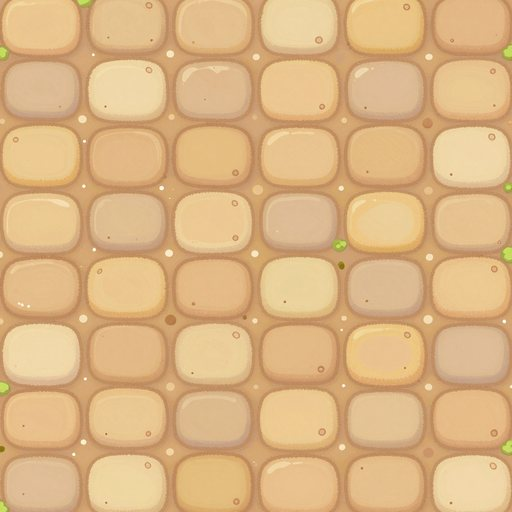
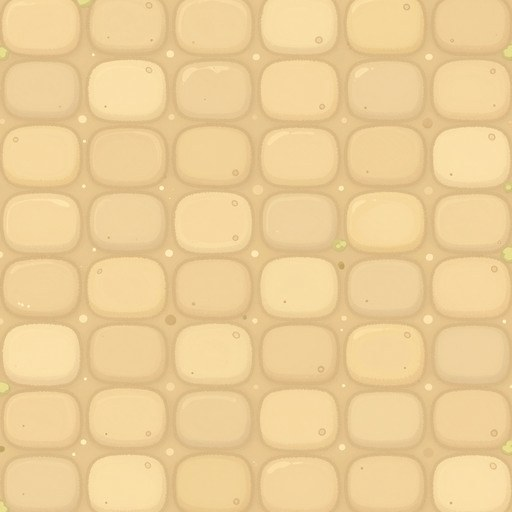
alfa a42fc8d: Merge: adoquines más suaves (menos contraste y color, al tono de la tierra)

diff --git a/alfa/index.html b/alfa/index.html
@@ -10,10 +10,10 @@
 <link rel="preconnect" href="https://fonts.googleapis.com">
 <link rel="preconnect" href="https://fonts.gstatic.com" crossorigin>
 <link rel="stylesheet" href="https://fonts.googleapis.com/css2?family=Baloo+2:wght@600;700;800&family=Luckiest+Guy&display=swap">
-<link rel="stylesheet" href="core/css/base.css?v=fa0d1a8">
-<link rel="stylesheet" href="biblioteca/tienda.css?v=fa0d1a8">
-<link rel="stylesheet" href="novedades/ventana.css?v=fa0d1a8">
-<link rel="stylesheet" href="biblioteca/votos.css?v=fa0d1a8">
+<link rel="stylesheet" href="core/css/base.css?v=a42fc8d">
+<link rel="stylesheet" href="biblioteca/tienda.css?v=a42fc8d">
+<link rel="stylesheet" href="novedades/ventana.css?v=a42fc8d">
+<link rel="stylesheet" href="biblioteca/votos.css?v=a42fc8d">
 <style>
   /* la entrada de la web: una tarjeta por juego, con los colores y las letras de core */
   body { overflow: auto; touch-action: auto; align-items: flex-start; background-repeat: no-repeat; background-attachment: fixed; }
@@ -61,7 +61,7 @@
 </style>
 </head>
 <body>
-<script src="menu.js?v=fa0d1a8" data-base="" data-core="1" data-pagina=""></script>
+<script src="menu.js?v=a42fc8d" data-base="" data-core="1" data-pagina=""></script>
 <div class="nov-fondo" id="novedades" hidden>
   <div class="nov-caja" role="dialog" aria-modal="true" aria-labelledby="nov-titulo">
     <div class="nov-cabeza"><h2 class="ol" id="nov-titulo">NOVEDADES</h2><p id="nov-sub"></p></div>
@@ -339,8 +339,8 @@
   </section>
   <p class="note" id="pie-fansof">Fans Of™ · © 2026 Arkioner y Pepins · MicroBlizz · Todos los derechos reservados</p>
 </main>
-<script src="core/js/nucleo.js?v=0-a700.fa0d1a8"></script>
-<script src="core/js/novedades.js?v=fa0d1a8"></script>
+<script src="core/js/nucleo.js?v=0-a701.a42fc8d"></script>
+<script src="core/js/novedades.js?v=a42fc8d"></script>
 <script>
 // La cuenta de la web es la misma de los juegos (core/js/sistema/cuenta.js, mismo navegador = misma sesión). Aquí no hay partida que subir.
 const AJUSTES = { id: 'web', guardado: 'fansof-web' }, SAVE_KEY = AJUSTES.guardado, SAVE = {};
@@ -349,7 +349,7 @@ const HOOKS = {};
 function hook(name, fn) { (HOOKS[name] = HOOKS[name] || []).push(fn); }
 function fire(name, ...a) { let out = ''; for (const fn of HOOKS[name] || []) { const r = fn(...a); if (typeof r === 'string') out += r; } return out; }
 </script>
-<script src="core/js/sistema/cuenta.js?v=fa0d1a8"></script>
+<script src="core/js/sistema/cuenta.js?v=a42fc8d"></script>
 <script>NUCLEO.idiomaSolo({ en: ['core/idioma/en-raiz.js', 'novedades/en.js', 'biblioteca/en.js','games/rumble/idioma/en-7.js', 'games/td/idioma/en-2.js', 'games/survivors/idioma/en.js', 'games/crush/idioma/en-raiz.js', 'games/jump/idioma/en-raiz.js', 'games/taxi/idioma/en-raiz.js', 'games/dark/idioma/en-raiz.js', 'games/nova/idioma/en-raiz.js', 'demos/beams/idioma/en-raiz.js', 'demos/snakes/idioma/en-raiz.js', 'demos/merge/idioma/en-raiz.js', 'demos/swipe/idioma/en-raiz.js', 'demos/pop/idioma/en-raiz.js', 'demos/vikings/idioma/en-raiz.js', 'demos/goose/idioma/en-raiz.js', 'demos/asalto/idioma/en-raiz.js', 'demos/auto/idioma/en-raiz.js', 'games/island/idioma/en-raiz.js', 'demos/rumble-3d/idioma/en-raiz.js', 'demos/roguelite/idioma/en-raiz.js', 'demos/tactics-advance/idioma/en-raiz.js', 'games/rouflage/idioma/en-raiz.js', 'demos/dungeons/idioma/en-raiz.js', 'games/karts/idioma/en-raiz.js', 'demos/recruit/idioma/en-raiz.js', 'demos/terminal-shock/idioma/en-raiz.js', 'games/ratkov/idioma/en-raiz.js'] })</script>
 <script>
 // La versión y las novedades salen de los archivos de cada juego, así que esta página nunca se queda atrás.
@@ -375,14 +375,14 @@ const fail = id => () => {
 };
 
 </script>
-<script src="core/js/proximamente.js?v=fa0d1a8"></script>
-<script src="novedades/ventana.js?v=fa0d1a8"></script>
-<script src="biblioteca/tienda.js?v=fa0d1a8"></script>
-<script src="core/js/sistema/beta.js?v=fa0d1a8"></script>
-<script src="biblioteca/cuenta-web.js?v=fa0d1a8"></script>
-<script src="biblioteca/votos.js?v=fa0d1a8"></script>
-<script src="biblioteca/alfa.js?v=fa0d1a8"></script>
-<script src="core/js/sistema/analitica.js?v=fa0d1a8"></script>
-<script src="pie.js?v=fa0d1a8" defer></script>
+<script src="core/js/proximamente.js?v=a42fc8d"></script>
+<script src="novedades/ventana.js?v=a42fc8d"></script>
+<script src="biblioteca/tienda.js?v=a42fc8d"></script>
+<script src="core/js/sistema/beta.js?v=a42fc8d"></script>
+<script src="biblioteca/cuenta-web.js?v=a42fc8d"></script>
+<script src="biblioteca/votos.js?v=a42fc8d"></script>
+<script src="biblioteca/alfa.js?v=a42fc8d"></script>
+<script src="core/js/sistema/analitica.js?v=a42fc8d"></script>
+<script src="pie.js?v=a42fc8d" defer></script>
 </body>
 </html>

diff --git a/alfa/games/rouflage/index.html b/alfa/games/rouflage/index.html
@@ -10,7 +10,7 @@
 <link rel="preconnect" href="https://fonts.googleapis.com">
 <link rel="preconnect" href="https://fonts.gstatic.com" crossorigin>
 <link rel="stylesheet" href="https://fonts.googleapis.com/css2?family=Baloo+2:wght@600;700;800&family=Luckiest+Guy&display=swap">
-<script src="../../core/js/nucleo.js?v=0.2.63-a700.fa0d1a8"></script>
+<script src="../../core/js/nucleo.js?v=0.2.63-a701.a42fc8d"></script>
 <script>NUCLEO.estilos('../../core/css/base.css', '../../core/css/menus.css', '../../core/css/menus-extra.css')</script>
 <script>NUCLEO.estilos('estilo.css', 'estilo-taller.css', 'estilo-pantallas.css', 'estilo-pvp.css', 'estilo-armario.css', 'estilo-menus.css', 'estilo-misiones.css', 'estilo-escenario.css', 'estilo-votos.css', 'estilo-gacha.css', 'estilo-compra.css', 'estilo-fin.css', 'estilo-talentos.css', 'estilo-chat.css', 'estilo-titulo.css', 'estilo-barra.css', 'estilo-sala-viva.css', 'estilo-obra.css', 'estilo-ayuda.css', 'estilo-carga.css')</script>      <!-- la intro, la última: pisa el #carga de estilo.css (antes iba en línea dentro de #carga) -->
 </head>

diff --git a/alfa/games/karts/index.html b/alfa/games/karts/index.html
@@ -8,7 +8,7 @@
 <meta name="description" content="Fans of Karts (juego): carreras de karts en pixel art de consola portátil con los líderes de Fans of Rumble. Tres pistas, seis pilotos, objetos con mala idea y Microblizz, que ha comprado la carrera.">
 <link rel="icon" type="image/png" href="img/icon-192.png">
 <link rel="apple-touch-icon" href="img/icon-192.png">
-<script src="../../core/js/nucleo.js?v=0.7.15-a700.fa0d1a8"></script>
+<script src="../../core/js/nucleo.js?v=0.7.15-a701.a42fc8d"></script>
 <script>NUCLEO.estilos('../../core/css/base.css', '../../core/css/menus.css', '../../core/css/menus-tienda.css', '../../core/css/menus-extra.css', 'css/tienda.css', 'css/pvp.css')</script>
 <link rel="stylesheet" href="https://fonts.googleapis.com/css2?family=Baloo+2:wght@600;700;800&family=Luckiest+Guy&display=swap">
 <style>

diff --git a/alfa/games/dark/index.html b/alfa/games/dark/index.html
@@ -12,7 +12,7 @@
 <link rel="stylesheet" href="https://fonts.googleapis.com/css2?family=Baloo+2:wght@600;700;800&family=Luckiest+Guy&family=Press+Start+2P&family=Pixelify+Sans:wght@400;600;700&display=swap">
 <link rel="stylesheet" href="css/dark.css?v=0.2.4">
 <!-- Prototipo: no usa NUCLEO (tiene su propia partida guardada). Carga de core el arte, la música, los efectos y las cifras del Rumble.
-     VERSIÓN para desplegar.py (que la busca así): nucleo.js?v=0.2.7-a700.fa0d1a8' (aquí solo se anota; súbela junto al ?v= de los scripts). -->
+     VERSIÓN para desplegar.py (que la busca así): nucleo.js?v=0.2.7-a701.a42fc8d' (aquí solo se anota; súbela junto al ?v= de los scripts). -->
 </head>
 <body>
 <canvas id="cv" aria-label="Mazmorra"></canvas>

diff --git a/alfa/games/rumble/index.html b/alfa/games/rumble/index.html
@@ -16,7 +16,7 @@
 <link rel="preconnect" href="https://fonts.gstatic.com" crossorigin>
 <link rel="stylesheet" href="https://fonts.googleapis.com/css2?family=Baloo+2:wght@600;700;800&family=Luckiest+Guy&display=swap">
 <!-- core/js/nucleo.js carga lo común y el juego. LA VERSIÓN SE ESCRIBE SOLO AQUÍ, en su ?v= -->
-<script src="../../core/js/nucleo.js?v=0.9.158-a700.fa0d1a8"></script>
+<script src="../../core/js/nucleo.js?v=0.9.158-a701.a42fc8d"></script>
 <script>NUCLEO.estilos('../../core/css/menus.css', 'css/estilos-partida.css', 'css/estilos-extra.css', 'css/arena.css', '../../core/css/biblioteca.css', 'css/facciones-y-jefes.css', '../../core/css/clasificacion.css', 'css/frases.css', 'css/mitica.css', 'css/paletas.css')</script>
 
 </head>

diff --git a/alfa/games/jump/index.html b/alfa/games/jump/index.html
@@ -12,7 +12,7 @@
 <link rel="preconnect" href="https://fonts.gstatic.com" crossorigin>
 <link rel="stylesheet" href="https://fonts.googleapis.com/css2?family=Baloo+2:wght@600;700;800&family=Luckiest+Guy&display=swap">
 <!-- ?v= es la versión del juego (la misma en la web y en la app): súbela al publicar y pon su entrada en js/novedades.js -->
-<script src="../../core/js/nucleo.js?v=0.3.16-a700.fa0d1a8"></script>
+<script src="../../core/js/nucleo.js?v=0.3.16-a701.a42fc8d"></script>
 <script>NUCLEO.estilos('../../core/css/base.css', '../../core/css/menus.css')</script>
 <style>
 /* Fans of Jump: un solo canvas a la resolución real de la pantalla, con los dibujos 3D. El mundo mide unos 200 de ancho y se

diff --git a/alfa/games/decks/index.html b/alfa/games/decks/index.html
@@ -15,7 +15,7 @@
 <link rel="preconnect" href="https://fonts.gstatic.com" crossorigin>
 <link rel="stylesheet" href="https://fonts.googleapis.com/css2?family=Baloo+2:wght@600;700;800&family=Luckiest+Guy&display=swap">
 <!-- core/js/nucleo.js carga lo común y el juego. LA VERSIÓN SE ESCRIBE SOLO AQUÍ, en su ?v= -->
-<script src="../../core/js/nucleo.js?v=0.2.21-a700.fa0d1a8"></script>
+<script src="../../core/js/nucleo.js?v=0.2.21-a701.a42fc8d"></script>
 <script>NUCLEO.estilos('../../core/css/base.css', '../../core/css/menus.css', 'css/decks.css', 'css/decks-reunion.css', 'css/decks-anim.css', 'css/decks-campana.css', 'css/decks-lideres.css')</script>
 </head>
 <body>

diff --git a/alfa/demos/goose/index.html b/alfa/demos/goose/index.html
@@ -10,7 +10,7 @@
 <link rel="preconnect" href="https://fonts.gstatic.com" crossorigin>
 <link rel="stylesheet" href="https://fonts.googleapis.com/css2?family=Pixelify+Sans:wght@500;700&family=Pirata+One&display=swap">
 <!-- ?v= es la versión de la demo: súbela al publicar -->
-<script src="../../core/js/nucleo.js?v=0.5.0-a700.fa0d1a8"></script>
+<script src="../../core/js/nucleo.js?v=0.5.0-a701.a42fc8d"></script>
 <script>NUCLEO.estilos('../../core/css/base.css', '../../core/css/menus.css')</script>
 <style>
 /* Fans of Goose: un solo canvas en vertical, a la resolución real del móvil. El mundo mide 200 de ancho. */

diff --git a/alfa/games/ratkov/index.html b/alfa/games/ratkov/index.html
@@ -13,7 +13,7 @@
 <link rel="preconnect" href="https://fonts.gstatic.com" crossorigin>
 <link rel="stylesheet" href="https://fonts.googleapis.com/css2?family=VT323&family=Russo+One&display=swap">
 <script src="https://cdnjs.cloudflare.com/ajax/libs/three.js/r128/three.min.js"></script>
-<script src="../../core/js/nucleo.js?v=0.2.29-a700.fa0d1a8"></script>
+<script src="../../core/js/nucleo.js?v=0.2.29-a701.a42fc8d"></script>
 <script>NUCLEO.estilos('../../core/css/base.css', '../../core/css/menus.css')</script>
 <link rel="stylesheet" href="estilo.css?v=0.2.3">
 <link rel="stylesheet" href="estilo-refugio.css?v=0.2.3">

diff --git a/alfa/games/survivors/index.html b/alfa/games/survivors/index.html
@@ -15,7 +15,7 @@
 <link rel="preconnect" href="https://fonts.gstatic.com" crossorigin>
 <link rel="stylesheet" href="https://fonts.googleapis.com/css2?family=Baloo+2:wght@600;700;800&family=Luckiest+Guy&display=swap">
 <!-- core/js/nucleo.js carga lo común y el juego. LA VERSIÓN SE ESCRIBE SOLO AQUÍ, en su ?v= -->
-<script src="../../core/js/nucleo.js?v=0.1.71-a700.fa0d1a8"></script>
+<script src="../../core/js/nucleo.js?v=0.1.71-a701.a42fc8d"></script>
 <script>NUCLEO.estilos('../../core/css/base.css', '../../core/css/menus.css', 'css/survivors.css', '../../core/css/biblioteca.css')</script>
 </head>
 <body>

diff --git a/alfa/games/td/index.html b/alfa/games/td/index.html
@@ -15,7 +15,7 @@
 <link rel="preconnect" href="https://fonts.gstatic.com" crossorigin>
 <link rel="stylesheet" href="https://fonts.googleapis.com/css2?family=Baloo+2:wght@600;700;800&family=Luckiest+Guy&display=swap">
 <!-- core/js/nucleo.js carga lo común y el juego. LA VERSIÓN SE ESCRIBE SOLO AQUÍ, en su ?v= -->
-<script src="../../core/js/nucleo.js?v=0.13.87-a700.fa0d1a8"></script>
+<script src="../../core/js/nucleo.js?v=0.13.87-a701.a42fc8d"></script>
 <script>NUCLEO.estilos('../../core/css/base.css', 'css/td.css', '../../core/css/menus.css', '../../core/css/biblioteca.css')</script>
 </head>
 <body>

diff --git a/alfa/demos/snakes/index.html b/alfa/demos/snakes/index.html
@@ -10,7 +10,7 @@
 <link rel="preconnect" href="https://fonts.gstatic.com" crossorigin>
 <link rel="stylesheet" href="https://fonts.googleapis.com/css2?family=Baloo+2:wght@600;700;800&display=swap">
 <!-- ?v= es la versión de la demo: súbela al publicar -->
-<script src="../../core/js/nucleo.js?v=0.2.1-a700.fa0d1a8"></script>
+<script src="../../core/js/nucleo.js?v=0.2.1-a701.a42fc8d"></script>
 <script>NUCLEO.estilos('../../core/css/base.css', '../../core/css/menus.css')</script>
 <style>
 /* Fans of Snakes: un solo canvas en vertical, a la resolución real del móvil. El mundo mide 200 de ancho. */
